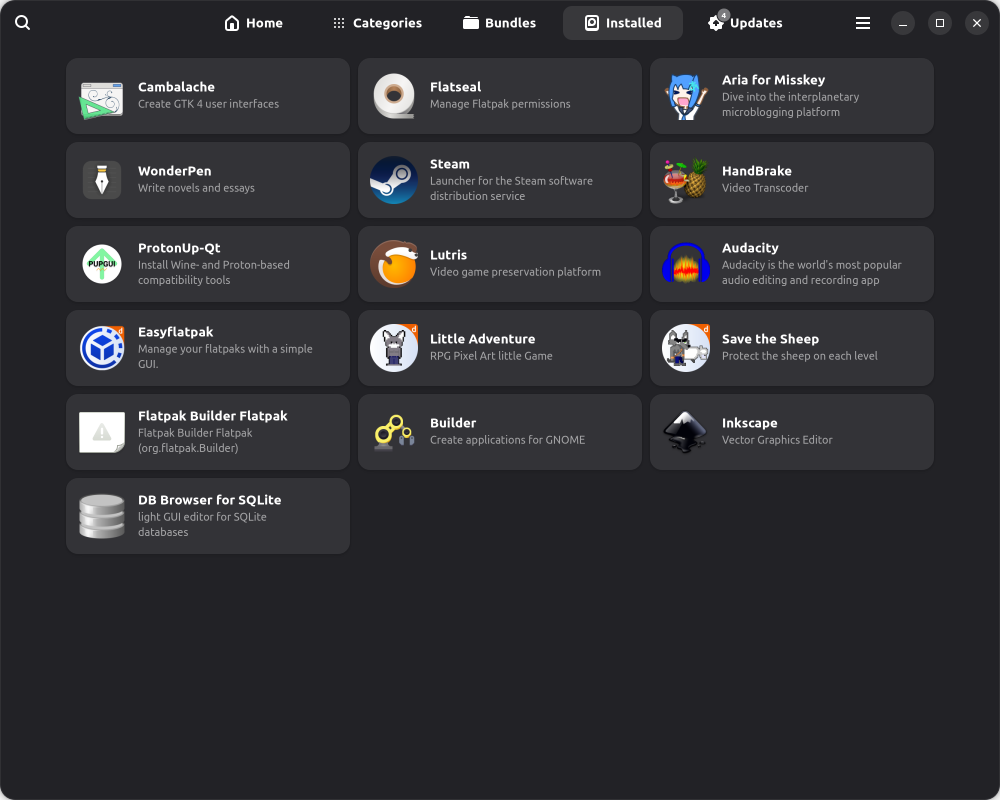
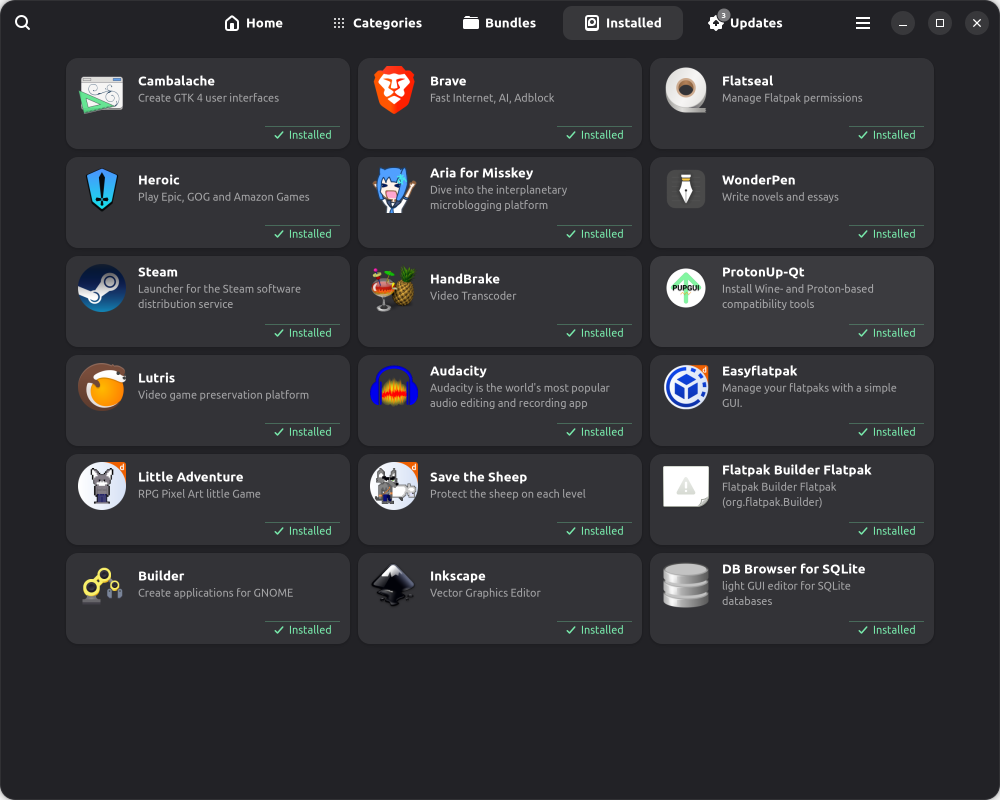
update: add way to install with right mouse button

diff --git a/src/infrastructure/ui/shared/app_list_grid_shared.py b/src/infrastructure/ui/shared/app_list_grid_shared.py
@@ -1,8 +1,15 @@
 import gi
+import subprocess
+import threading
+from domain.UseCase.get_recipe_content_uc import GetRecipeContentUc
+from infrastructure.api.flatpak_api import FlatpakApi
+from infrastructure.repository.recipe_repository import RecipeRepository
+from infrastructure.service.install_queue_service import InstallQueueService
 
 gi.require_version("Gtk", "4.0")
+gi.require_version("Gdk", "4.0")
 
-from gi.repository import Gtk, Pango
+from gi.repository import Gdk, GLib, Gtk, Pango
 
 _css_provider = Gtk.CssProvider()
 _css_provider.load_from_string(
@@ -14,11 +21,40 @@ _css_provider.load_from_string(
 .app-grid flowboxchild:hover {
     background: transparent;
 }
+.installed-strip {
+    border-top: 1px solid alpha(@success_color, 0.3);
+}
 """
 )
 
 
-def _make_square_card(app, on_click, *on_click_args) -> Gtk.Button:
+def _make_icon_with_badge(
+    icon: Gtk.Image, installed: bool, pixel_size: int
+) -> Gtk.Widget:
+    if not installed:
+        return icon
+
+    badge_icon = Gtk.Image.new_from_icon_name("object-select-symbolic")
+    badge_icon.set_pixel_size(10)
+    badge_icon.add_css_class("success")
+
+    badge = Gtk.Box()
+    badge.set_halign(Gtk.Align.END)
+    badge.set_valign(Gtk.Align.END)
+    badge.append(badge_icon)
+
+    overlay = Gtk.Overlay()
+    overlay.set_child(icon)
+    overlay.add_overlay(badge)
+    overlay.set_halign(Gtk.Align.CENTER)
+    overlay.set_valign(Gtk.Align.CENTER)
+    overlay.set_size_request(pixel_size, pixel_size)
+    return overlay
+
+
+def _make_square_card(
+    app, on_click, installed: bool = False, *on_click_args
+) -> Gtk.Button:
     button = Gtk.Button()
     button.add_css_class("flat")
     button.connect("clicked", on_click, app.id, *on_click_args)
@@ -38,7 +74,7 @@ def _make_square_card(app, on_click, *on_click_args) -> Gtk.Button:
     icon.set_margin_top(16)
     icon.set_margin_start(8)
     icon.set_margin_end(8)
-    box.append(icon)
+    box.append(_make_icon_with_badge(icon, installed, 56))
 
     title = Gtk.Label(label=app.getName())
     title.add_css_class("caption")
@@ -56,10 +92,14 @@ def _make_square_card(app, on_click, *on_click_args) -> Gtk.Button:
     return button
 
 
-def _make_list_card(app, on_click, *on_click_args) -> Gtk.Button:
+def _make_list_card(
+    app, on_click, installed: bool = False, has_recipe: bool = False, *on_click_args
+) -> Gtk.Button:
     button = Gtk.Button()
     button.add_css_class("card")
     button.connect("clicked", on_click, app.id, *on_click_args)
+
+    outer = Gtk.Box(orientation=Gtk.Orientation.VERTICAL, spacing=0)
 
     box = Gtk.Box(orientation=Gtk.Orientation.HORIZONTAL, spacing=12)
     box.set_valign(Gtk.Align.CENTER)
@@ -94,7 +134,103 @@ def _make_list_card(app, on_click, *on_click_args) -> Gtk.Button:
     text_box.append(summary)
 
     box.append(text_box)
-    button.set_child(box)
+    outer.append(box)
+
+    if installed:
+        strip = Gtk.Box(orientation=Gtk.Orientation.HORIZONTAL, spacing=4)
+        strip.add_css_class("installed-strip")
+        strip.set_halign(Gtk.Align.END)
+        strip.set_margin_top(4)
+        strip.set_margin_end(10)
+        strip.set_margin_bottom(6)
+
+        badge_icon = Gtk.Image.new_from_icon_name("object-select-symbolic")
+        badge_icon.set_pixel_size(12)
+        badge_icon.add_css_class("success")
+        badge_icon.set_margin_start(8)
+
+        badge_label = Gtk.Label(label=_("Installed"))
+        badge_label.add_css_class("caption")
+        badge_label.add_css_class("success")
+        badge_label.set_margin_end(8)
+
+        strip.append(badge_icon)
+        strip.append(badge_label)
+        outer.append(strip)
+
+    button.set_child(outer)
+
+    if not installed:
+        gesture = Gtk.GestureClick()
+        gesture.set_button(3)
+
+        def on_right_click(g, _n, x, y):
+            popover = Gtk.Popover()
+            popover.set_parent(button)
+            rect = Gdk.Rectangle()
+            rect.x = int(x)
+            rect.y = int(y)
+            rect.width = 1
+            rect.height = 1
+            popover.set_pointing_to(rect)
+
+            label = _("Install with recipe") if has_recipe else _("Install")
+            install_btn = Gtk.Button(label=label)
+            install_btn.add_css_class("suggested-action")
+            install_btn.set_margin_top(4)
+            install_btn.set_margin_bottom(4)
+            install_btn.set_margin_start(4)
+            install_btn.set_margin_end(4)
+
+            def on_install(_btn):
+                from infrastructure.ui.appstream.install_dialog import InstallDialog
+                from domain.UseCase.get_recipe_content_uc import GetRecipeContentUc
+                from infrastructure.repository.recipe_repository import RecipeRepository
+
+                popover.popdown()
+
+                def on_confirm(user_scope, active_permission_list):
+                    queue_item = InstallQueueService().enqueue(app.id, app.getName())
+
+                    def run_install():
+                        flatpak_api = FlatpakApi()
+                        flags = ["--user"] if user_scope else ["--system"]
+                        process = subprocess.Popen(
+                            flatpak_api.get_install_call(app.id, *flags),
+                            stdout=subprocess.PIPE,
+                            stderr=subprocess.STDOUT,
+                            text=True,
+                        )
+                        for line in process.stdout:
+                            GLib.idle_add(queue_item.append_output, line)
+                        process.wait()
+                        for perm, value in active_permission_list:
+                            if perm.is_filesystem():
+                                subprocess.run(
+                                    flatpak_api.get_override_filesystem_call(
+                                        app.id, value
+                                    )
+                                )
+                        result = flatpak_api.get_info_by_id(app.id)
+                        GLib.idle_add(
+                            queue_item.set_status,
+                            "done" if result.returncode == 0 else "failed",
+                        )
+
+                    threading.Thread(target=run_install, daemon=True).start()
+
+                recipe_uc = GetRecipeContentUc(RecipeRepository())
+                dialog = InstallDialog(app.id, has_recipe, recipe_uc, on_confirm)
+                dialog.present(button.get_root())
+
+            install_btn.connect("clicked", on_install)
+            popover.set_child(install_btn)
+            popover.popup()
+            g.set_state(Gtk.EventSequenceState.CLAIMED)
+
+        gesture.connect("pressed", on_right_click)
+        button.add_controller(gesture)
+
     return button
 
 
@@ -107,6 +243,9 @@ class AppListGridShared:
     def __init__(self, square: bool = False):
         self._square = square
         self._apps = []
+
+        self._app_id_installed_list = FlatpakApi().get_installed_app_id_list()
+        self._recipe_uc = GetRecipeContentUc(RecipeRepository())
 
         if square:
             self._flow_box = Gtk.FlowBox()
@@ -157,10 +296,14 @@ class AppListGridShared:
         return self._widget
 
     def append(self, app, on_click, *on_click_args):
+        installed = app.id in self._app_id_installed_list
+        has_recipe = self._recipe_uc.has_recipe(app.id)
         if self._square:
-            self._flow_box.append(_make_square_card(app, on_click, *on_click_args))
+            self._flow_box.append(
+                _make_square_card(app, on_click, installed, *on_click_args)
+            )
         else:
-            btn = _make_list_card(app, on_click, *on_click_args)
+            btn = _make_list_card(app, on_click, installed, has_recipe, *on_click_args)
             btn.set_size_request(CARD_WIDTH, 76)
 
             child = Gtk.FlowBoxChild()
